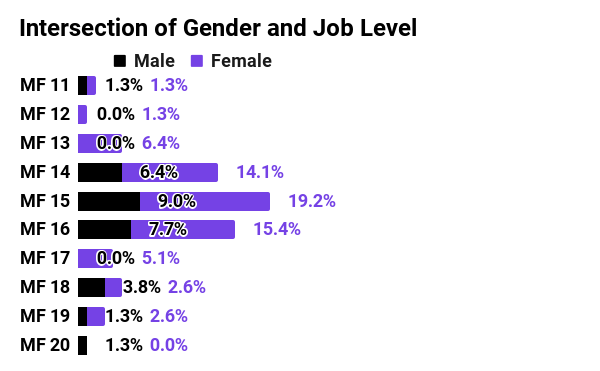
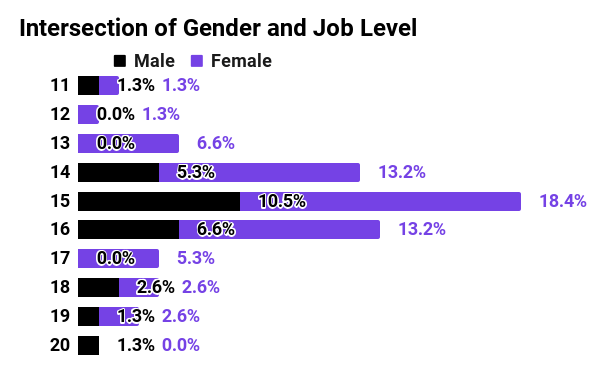
added tables and completed overview page

diff --git a/bedrock/mozorg/templates/mozorg/diversity/2021/index.html b/bedrock/mozorg/templates/mozorg/diversity/2021/index.html
@@ -23,6 +23,8 @@
 
 
 
+
+
 <main role="main">
   <header class="c-hero-banner">
     <div class="mzp-l-content">
@@ -35,7 +37,6 @@
       </div>
     </div>
   </header>
-
   <!-- Introduction -->
   <section class="mzp-l-content">
     <div class="c-section-intro">
@@ -51,6 +52,11 @@
         <li>More than ever before we have the necessary tools and capabilities to accelerate our work in this space than we did in the past</li>
         <li>Curating unique opportunities for learning and engagement helps people participate in ways that are authentic to them</li>
       </ul>
+      <div class="mzp-c-video">
+        <iframe width="640" height="360" src="https://www.youtube-nocookie.com/embed/oDifVXtL10w" title="Diversity and Inclusion at Mozilla" frameborder="0" allowfullscreen>
+          <p><a href="https://www.youtube.com/watch?v=oDifVXtL10w">Watch the video</a></p>
+        </iframe>
+      </div>
     </div>
     <div class="c-section-intro">
       <h3><span class="highlight black">2021 Impact Highlights</span></h3>
@@ -112,20 +118,20 @@
       <p>In the five years of reporting representation metrics, we have seen a 13 percentage point increase in women at Mozilla Corporation and a 10 percentage point increase in women at Mozilla Foundation. Mozilla Corporation also saw a 6 percentage point increase in Black/African American representation.</p>
     </div>
     <div class="c-section-intro">
-    <div class="c-section-graphs">
-      <figure>
-        <img src="{{ static('img/mozorg/diversity/2021/mofo-gender-all.png') }}" alt="Graphs showing Mozilla Foundation's gender diversity between 2017 and 2021. In 2017, 41.6% men, and 58.4% women. In 2021, 30.3% men, 68.4% women, and 1.3% other gender identities.">
+      <div class="c-section-graphs">
+        <figure>
+          <img src="{{ static('img/mozorg/diversity/2021/mofo-gender-all.png') }}" alt="Graphs showing Mozilla Foundation's gender diversity between 2017 and 2021. In 2017, 41.6% men, and 58.4% women. In 2021, 30.3% men, 68.4% women, and 1.3% other gender identities.">
         </figure>
         <figure>
-        <img src="{{ static('img/mozorg/diversity/2021/mofo-race-ethnicity-US.png') }}" alt="Graphs showing Mozilla Foundation's racial and ethnic diversity between 2017 to 2021 for the U.S.. In 2017, 70.5% White, 9.1% Asian, 9.1% Black or African American, 6.8% Hispanic or Latinx, 0% American Indian or Alaskan Native, 0% Native Hawaiian or Pacific Islander, and 4.5% two or more races. In 2021, 66.7 White, 5.6% Asian, 8.3% Black or African American, 8.3% Hispanic or Latinx, 0% American Indian or Alaskan Native, 0% Native Hawaiian or Pacific Islander, and 5.6% two or more races.">
-      </figure>
-      <figure>
-        <img src="{{ static('img/mozorg/diversity/2021/moco-gender-all.png') }}" alt="Graphs showing Mozilla Corporation's gender diversity between 2017 and 2021. In 2017, 75.5% men, 24.4% women, and 0.1% made up of other gender identities. In 2021, 63% men, 37% women, and 0% gender identities.">
-      </figure>
-      <figure>
-        <img src="{{ static('img/mozorg/diversity/2021/moco-race-ethnicity-US.png') }}" alt="Graphs showing Mozilla Corporation's racial and ethnic diversity between 2017 to 2021 for the U.S.. In 2017, 75.1% White, 15.5% Asian, 1.8% Black or African American, 3.9% Hispanic or Latinx, 0.7% American Indian or Alaskan Native, 0.5% Native Hawaiian or Pacific Islander, and 2.5% two or more races. In 2021, 62.2% White, 16% Asian, 7.8% Black or African American, 4.3% Hispanic or Latinx, 0.2% American Indian or Alaskan Native, 0.4% Native Hawaiian or Pacific Islander, and 3.5% two or more races.">
-      </figure>
-    </div>
+          <img src="{{ static('img/mozorg/diversity/2021/mofo-race-ethnicity-US.png') }}" alt="Graphs showing Mozilla Foundation's racial and ethnic diversity between 2017 to 2021 for the U.S.. In 2017, 70.5% White, 9.1% Asian, 9.1% Black or African American, 6.8% Hispanic or Latinx, 0% American Indian or Alaskan Native, 0% Native Hawaiian or Pacific Islander, and 4.5% two or more races. In 2021, 66.7 White, 5.6% Asian, 8.3% Black or African American, 8.3% Hispanic or Latinx, 0% American Indian or Alaskan Native, 0% Native Hawaiian or Pacific Islander, and 5.6% two or more races.">
+        </figure>
+        <figure>
+          <img src="{{ static('img/mozorg/diversity/2021/moco-gender-all.png') }}" alt="Graphs showing Mozilla Corporation's gender diversity between 2017 and 2021. In 2017, 75.5% men, 24.4% women, and 0.1% made up of other gender identities. In 2021, 63% men, 37% women, and 0% gender identities.">
+        </figure>
+        <figure>
+          <img src="{{ static('img/mozorg/diversity/2021/moco-race-ethnicity-US.png') }}" alt="Graphs showing Mozilla Corporation's racial and ethnic diversity between 2017 to 2021 for the U.S.. In 2017, 75.1% White, 15.5% Asian, 1.8% Black or African American, 3.9% Hispanic or Latinx, 0.7% American Indian or Alaskan Native, 0.5% Native Hawaiian or Pacific Islander, and 2.5% two or more races. In 2021, 62.2% White, 16% Asian, 7.8% Black or African American, 4.3% Hispanic or Latinx, 0.2% American Indian or Alaskan Native, 0.4% Native Hawaiian or Pacific Islander, and 3.5% two or more races.">
+        </figure>
+      </div>
     </div>
   </section>
   <section class="mzp-l-content">
@@ -159,7 +165,7 @@
         <h3><span class="highlight black">Race and ethnicity (U.S. Only)</span></h3>
         <p>We focused our efforts on attracting and retaining diverse talent and made demonstrable progress, recognizing there is much more room for growth. We saw an almost 3 percent increase in Black/African American and Hispanic/Latinx representation in 2021, bringing us to just over 8% of representation for each group.</p>
         <div class="c-section-graphs">
-           <figure>
+          <figure>
             <img src="{{ static('img/mozorg/diversity/2021/mofo-race-ethnicity-overall.png') }}" alt="Graph showing overall race and ethnicity in 2021 for Mozilla Foundation. 66.7% White, 5.6% Asian, 8.3% Black or African American, 8.3% Hispanic or Latinx, 0% American Indian or Alaskan Native, 0% Native Hawaiian or Pacific Islander, 5.6% two or more races.">
           </figure>
           <figure>
@@ -181,7 +187,16 @@
         <p>White women represented nearly half of the Mozilla Foundation’s staff in the United States. Women of color — those who are Black/African American, Asian, and Hispanic/Latinx — represented over 11 percent of the organization.</p>
         <div class="c-section-graphs graph-center">
           <figure>
-            <img src="{{ static('img/mozorg/diversity/2021/mofo-gender-job-intersection.png') }}" alt="Graph showing intersection of gender and job level in 2021 for Mozilla Foundation. For men, 1.3% MF 11, 0% MF 12, 0% MF 13, 6.4% MF 14, 9% MF 15, 7.7% MF 16, 0% MF 17, 3.8% MF 18, 1.3% MF 19, 1.3% MF 20. For women, 1.3% MF 11, 1.3% MF 12, 6.4% MF 13, 14.1% MF 14, 19.2% MF 15, 15.4% MF 16, 5.1% MF 17, 2.6% MF 18, 2.6% MF 19, 0% MF 20.">
+            <img src="{{ static('img/mozorg/diversity/2021/mofo-gender-race-ethnicity-intersection.png') }}" alt="Graph showing intersection of gender and job level in 2021 for Mozilla Foundation. For men, 20% White, 2.9% Asian, 2.9% Black or African American, 5.7% Hispanic or Latinx, 0% American Indian or Alaskan Native, 0% Native Hawaiian or Pacific Islander, 2.9% two or more races. For women, 45.7% White, 2.9% Asian, 5.7% Black or African American, 2.9% Hispanic or Latinx, 0% American Indian or Alaskan Native, 0% Native Hawaiian or Pacific Islander, 0% two or more races. For other gender identities, 0% across the board, but 2.9% two or more races.">
+          </figure>
+        </div>
+      </div>
+      <div class="c-section-intro">
+        <h3><span class="highlight black">Intersection of gender and job level</span></h3>
+        <p>Women continue to make up a significant majority of employees within the Foundation. Men and women are generally similarly distributed across most job levels with most roles falling between L14 to L16. We see women and men near parity at the highest senior leadership levels (L18 to L20). This suggests that despite the higher representation of women at the organization, men are overrepresented in the highest senior leadership levels in relation to their overall representation at the organization. There is a similar over-representation of women at the more junior or entry levels (L11 to L13), with women representing roughly 9% of roles and men representing 1.3%. Ultimately, there is an opportunity to pursue a more equitable gender distribution across job levels.</p>
+        <div class="c-section-graphs graph-center">
+          <figure>
+            <img src="{{ static('img/mozorg/diversity/2021/mofo-gender-job-intersection.png') }}" alt="Graph showing intersection of gender and job level in 2021 for Mozilla Foundation. For men, 1.3% MF 11, 0% MF 12, 0% MF 13, 5.3% MF 14, 10.5% MF 15, 6.6% MF 16, 0% MF 17, 2.6% MF 18, 1.3% MF 19, 1.3% MF 20. For women, 1.3% MF 11, 1.3% MF 12, 6.6% MF 13, 13.2% MF 14, 18.4% MF 15, 13.2% MF 16, 5.3% MF 17, 2.6% MF 18, 2.6% MF 19, 0% MF 20.">
           </figure>
         </div>
       </div>
@@ -263,7 +278,7 @@
           <figure>
             <img src="{{ static('img/mozorg/diversity/2021/moco-tech-race-ethnicity.png') }}" alt="Graph showing race and ethnicity in technical roles in 2021 for Mozilla Corporation. 66.1% White, 15.9% Asian, 5.8% Black or African American, 4.1% Hispanic or Latinx, 0.3% American Indian or Alaskan Native, 0.3% Native Hawaiian or Pacific Islander, 2.6% two or more races.">
           </figure>
-         <figure>
+          <figure>
             <img src="{{ static('img/mozorg/diversity/2021/moco-nontech-race-ethnicity.png') }}" alt="Graph showing race and ethnicity in non-technical roles in 2021 for Mozilla Corporation. 50.8% White, 16.1% Asian, 13.6% Black or African American, 5.1% Hispanic or Latinx, 0% American Indian or Alaskan Native, 0.8% Native Hawaiian or Pacific Islander, 5.9% two or more races.">
           </figure>
           <figure>
@@ -335,55 +350,159 @@
       </div>
     </div>
   </section>
-
   <section class="mzp-l-content">
     <div class="c-section-intro">
       <h2><span class="highlight green">Racial justice commitments update</span></h2>
       <p>In June 2020, spurred by the racist events occurring in the United States and in the wake of George Floyd’s murder, we set <a href="https://blog.mozilla.org/en/mozilla/first-steps-toward-lasting-change/" target="_blank" rel="external noopener">our racial justice commitments</a>. These commitments were a first step toward lasting change and were meant to be measured at the end of 2021. Approximately one year after publishing our Racial Justice Commitments, we documented our progress <a href="https://blog.mozilla.org/en/mozilla/leadership/mozilla-racial-justice-commitments-one-year-in/" target="_blank" rel="external noopener">one year in</a>. We set aggressive targets to ignite momentum and encourage innovation. While we did not meet all of our goals, we were encouraged by the universal commitment of Mozillians to engage, learn, and take action within their sphere of influence and beyond. The framework offered by our racial justice commitments — <strong>“who we are, what we build, and what we do beyond products”</strong> — continues to guide our work. </p>
       <div class="c-section-intro">
+        <h3><span class="highlight black">Who we are: Our employee base and our communities</span></h3>
+        <table class="mzp-u-data-table commitments-table">
+          <thead>
+            <tr>
+              <th>Goal</th>
+              <th>Current status</th>
+            </tr>
+          </thead>
+          <tbody>
+            <tr>
+              <td>Increase Black representation in the U.S. at the leadership level, aiming for 6% Black employees at the Director level and up at Mozilla Corporation.</td>
+              <td>
+                <p><span class="status achieved">Achieved</span></p>
+                9.3% Black representation at Director+ level for Mozilla Corporation.
+              </td>
+            </tr>
+            <tr>
+              <td>Black representation on Mozilla Corporation and Mozilla Foundation boards.</td>
+              <td>
+                <p><span class="status achieved">Achieved</span></p>
+                Both Mozilla Foundation and Mozilla Corporation have a more diverse <a href="{{ url('mozorg.about.leadership') }}">Board of Directors</a>.
+              </td>
+            </tr>
+            <tr>
+              <td>Create dedicated and comprehensive recruiting, development, and inclusion efforts that attract and retain Black and Latinx Mozillans.</td>
+              <td>
+                <p><span class="status achieved">Achieved</span></p>
+                We engaged in recruiting events to strengthen our pool of Black and Latinx talent, and invested in connection, learning, and development opportunities for our Afrozilla and LatinPride resource groups.
+              </td>
+            </tr>
+            <tr>
+              <td>Double the percentage of Black representation of our U.S. staff.</td>
+              <td>
+                <p><span class="status achieved">Achieved</span></p>
+                <ul>
+                  <li>Mozilla Corporation more than doubled, increasing from 3.4% to 7.8%.</li>
+                  <li>Mozilla Foundation more than doubled, increasing from 3% to 8.3%.</li>
+                </ul>
+              </td>
+            </tr>
+            <tr>
+              <td>Double the percentage of Latinx representation of our U.S. staff.</td>
+              <td>
+                <p><span class="status not-achieved">Not achieved</span></p>
+                <ul>
+                  <li>Mozilla Corporation showed an increase from 3.8% to 4.3%.</li>
+                  <li>Mozilla Foundation showed an increase from 5% to 8.3%.</li>
+                </ul>
+              </td>
+            </tr>
+          </tbody>
+        </table>
+      </div>
+      <div class="c-section-intro">
+        <h3><span class="highlight black">What we build: Our outreach with our products</span></h3>
+        <table class="mzp-u-data-table commitments-table">
+          <thead>
+            <tr>
+              <th>Goal</th>
+              <th>Current status</th>
+            </tr>
+          </thead>
+          <tbody>
+            <tr>
+              <td>Surface content via Pocket and through Firefox by Black writers and thought leaders.</td>
+              <td>
+                <p><span class="status achieved">Achieved</span></p>
+                Pocket amplified voices and experiences of communities of color with over 20 collections garnering 217,000 views in 2021 alone.
+              </td>
+            </tr>
+            <tr>
+              <td>Broadening user research and understanding of our users, their stories, and their problems.</td>
+              <td>
+                <p><span class="status partially-achieved">Partially achieved</span></p>
+                We led a user research and design project that resulted in a 5-step recommendation for de-biasing our design processes but did not implement as many of the steps as we had hoped in 2021.
+              </td>
+            </tr>
+          </tbody>
+        </table>
+      </div>
+      <div class="c-section-intro">
+        <h3><span class="highlight black">What we do beyond products: Our broader engagement with the world</span></h3>
+        <table class="mzp-u-data-table commitments-table">
+          <thead>
+            <tr>
+              <th>Goal</th>
+              <th>Current status</th>
+            </tr>
+          </thead>
+          <tbody>
+            <tr>
+              <td>Direct at least 40% of Mozilla Foundation grants in 2020 to Black-led projects or organizations, with specific targets to come for 2021 and beyond.</td>
+              <td>
+                <p><span class="status partially-achieved">Partially achieved</span></p>
+                We ultimately committed 33% of our Awards and Fellowships team funding (over $480,000) to Black-led projects and organizations in 2020.
+              </td>
+            </tr>
+            <tr>
+              <td>Develop and invest in new college engagement programs with Historically Black Colleges and Universities (HBCUs) and Black student networks.</td>
+              <td>
+                <p><span class="status achieved">Achieved</span></p>
+                We built partnerships with Historically Black Colleges and Universities (HBCUs), deploying three programs at Hampton University, Virginia State University, Spelman College, and the Atlanta University Center Data Science Initiative. Our programs featured over 20 HBCU scholars and faculty and $150,000 in grants toward ethical tech, trustworthy AI, and building careers in tech.
+              </td>
+            </tr>
+            <tr>
+              <td>Focus Mozilla’s brand and social media efforts on lifting up people and organizations standing for Black lives and communities, especially where they’re working at the intersection of technology and racial justice.</td>
+              <td>
+                <p><span class="status achieved">Achieved</span></p>
+                We partnered with multiple organizations to support campaigns and initiatives that addressed racial justice and amplified Black voices. We called on Nextdoor and Amazon Ring to pause their relationships with police departments. We also hosted a Dialogues & Debates series, where a diverse set of panelists discussed the impact of technology and AI on communities of color.
+              </td>
+            </tr>
+          </tbody>
+        </table>
       </div>
     </div>
   </section>
-
   <!-- Heading leading to pages -->
-  <section class="no-js-hidden">
-    <div class="c-section-intro-bg">
-      <div class="c-section-intro">
-        <h2><span class="highlight green">Some Heading</span></h2>
-        <p>Lorem ipsum dolor sit amet, consectetur adipisicing elit. Assumenda, at eaque sunt commodi aut velit aliquid mollitia, enim quia officiis aperiam, rem laboriosam quis cum harum laborum nostrum blanditiis animi.</p>
-        <p><strong>Lorem ipsum dolor sit amet consectetur adipisicing elit. Aut soluta consequatur quam nulla cupiditate a sint temporibus quo odio. Adipisci modi tempora, necessitatibus quos mollitia ullam quo corrupti saepe omnis obcaecati repudiandae quia blanditiis. Quisquam, doloremque maiores, vero odit explicabo nemo cupiditate incidunt facere recusandae optio excepturi impedit sit eius voluptatum aperiam. Sit repellat ex officia adipisci, ipsum deleniti natus.</strong></p>
-      </div>
-    </div>
-    <div class="mzp-l-content">
-      <div class="mzp-l-card-third">
-        {{ card(
-        title='What we build',
-        ga_title='Putting cookies where they belong',
-        desc='Our outreach with our products',
-        aspect_ratio='mzp-has-aspect-16-9',
-        link_url=url('mozorg.diversity.2021.what-we-build'),
-        image_url='img/foundation/annualreport/2020/total-cookie-protection.jpg',
-        )}}
-        {{ card(
-        title='Who we are',
-        ga_title='The ever-expanding Mozilla VPN',
-        desc='Our employee base and our communities',
-        aspect_ratio='mzp-has-aspect-16-9',
-        link_url=url('mozorg.diversity.2021.who-we-are'),
-        image_url='img/foundation/annualreport/2020/vpn-blog-header.jpg',
-        )}}
-        {{ card(
-        title='Beyond our products',
-        ga_title='Putting cookies where they belong',
-        desc='Our broader engagement with the world',
-        aspect_ratio='mzp-has-aspect-16-9',
-        link_url=url('mozorg.diversity.2021.beyond-products'),
-        image_url='img/foundation/annualreport/2020/total-cookie-protection.jpg',
-        )}}
-      </div>
+  <section class="mzp-l-content">
+    <div class="mzp-l-card-third">
+      {{ card(
+      title='What we build',
+      ga_title='Putting cookies where they belong',
+      desc='Our outreach with our products',
+      aspect_ratio='mzp-has-aspect-16-9',
+      link_url=url('mozorg.diversity.2021.what-we-build'),
+      image_url='img/foundation/annualreport/2020/total-cookie-protection.jpg',
+      )}}
+      {{ card(
+      title='Who we are',
+      ga_title='The ever-expanding Mozilla VPN',
+      desc='Our employee base and our communities',
+      aspect_ratio='mzp-has-aspect-16-9',
+      link_url=url('mozorg.diversity.2021.who-we-are'),
+      image_url='img/foundation/annualreport/2020/vpn-blog-header.jpg',
+      )}}
+      {{ card(
+      title='Beyond our products',
+      ga_title='Putting cookies where they belong',
+      desc='Our broader engagement with the world',
+      aspect_ratio='mzp-has-aspect-16-9',
+      link_url=url('mozorg.diversity.2021.beyond-products'),
+      image_url='img/foundation/annualreport/2020/total-cookie-protection.jpg',
+      )}}
     </div>
   </section>
 </main>
+
+
 
 
 

diff --git a/media/css/mozorg/diversity/2021/diversity-2021.scss b/media/css/mozorg/diversity/2021/diversity-2021.scss
@@ -598,6 +598,7 @@ $image-path: '/media/protocol/img';
             display: inline-block;
             margin-right: $spacing-xs;
         }
+
         @media #{$mq-md} {
             @include text-title-sm;
             padding-top: $spacing-2xl;
@@ -639,29 +640,55 @@ $image-path: '/media/protocol/img';
 .c-section-graphs {
     display: flex;
     flex-wrap: wrap;
+    justify-content: space-between;
 
     &.graph-center {
         justify-content: center;
     }
-    justify-content: space-between;
 
     figure {
-        max-width: 420px;
-        border: 1px solid lightgrey;
+        // max-width: 420px;
+        border: 1px solid $color-marketing-gray-30;
         margin: $spacing-md 0;
 
         img {
             display: block;
+            width: 420px !important;
+            max-width: 100%;
+            height: auto !important;
         }
     }
 }
 
-.c-section-table {
+.commitments-table {
     margin: 0 auto;
-    max-width: 420px;
     margin-top: $spacing-2xl;
+    table-layout: fixed;
+    width: 100%;
 
-    .mzp-u-data-table {
-        width: 100%;
+    .status {
+        padding: 3px;
+        font-weight: 600;
+
+        &.achieved {
+            background-color: $color-green-30;
+        }
+
+        &.partially-achieved {
+            background-color: $color-orange-30;
+        }
+
+        &.not-achieved {
+            background-color: $color-red-50;
+        }
+    }
+
+    th,
+    td {
+        width: 420px;
+    }
+
+    ul {
+        list-style: none;
     }
 }
